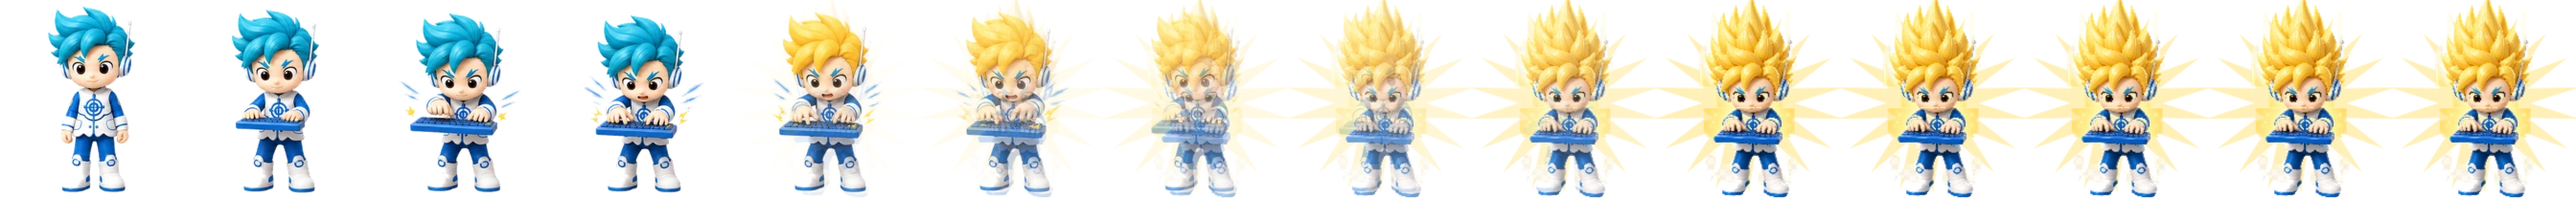
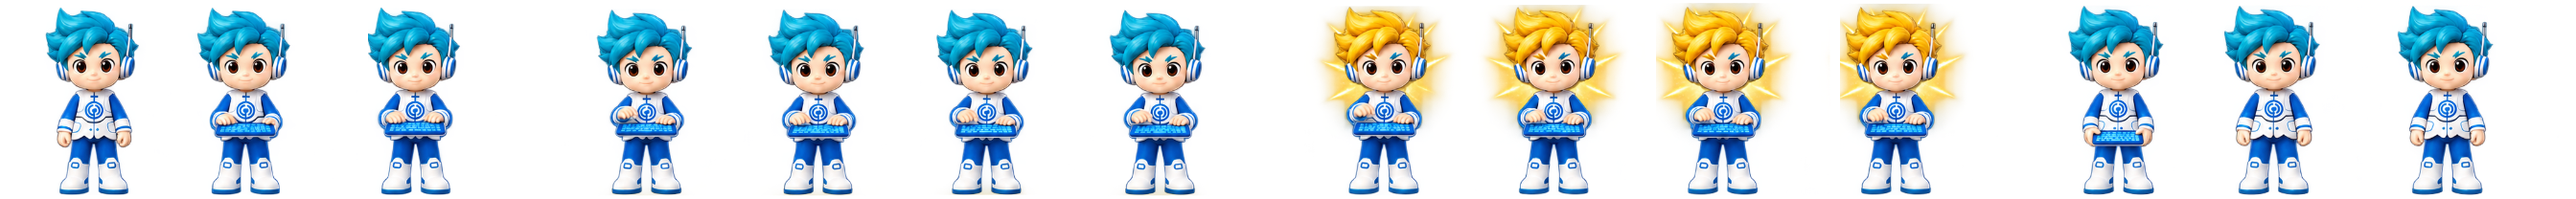
fix: 稳定内置宠物动作比例并加快悬停眨眼节奏
校准 zenmi 念经图集的逐帧高度及脚底位置，修复动作过程中轻微伸缩和上下漂移。重新制作 cutej 努力工作图集，保持工作角色的身体比例，去除交叉淡入造成的半透明人物重影，同时保留金发工作阶段资源自身携带的金色光效；不再依赖应用品牌额外叠加背景。

设置页悬停预览仍使用 idle 资源，但将动作段压缩至约零点六秒，随后回到首帧停歇三秒，再间歇重播，离开区域立即停止。保留减少动态效果偏好。通过渲染器构建、五十三项桌宠行为和命中测试，以及 Electron 动画时间点检查。生成源图、校准脚本和资源包输出均留在 output，不纳入提交。

diff --git a/src/renderer/pages/settings/SettingsPage.css b/src/renderer/pages/settings/SettingsPage.css
@@ -3778,7 +3778,7 @@
   background-position: 0 0;
 }
 .settings-page .pet-appearance-card:hover .desktop-pet-appearance-sprite {
-  animation: pet-card-idle var(--pet-preview-duration) steps(var(--desktop-pet-appearance-preview-frames)) infinite;
+  animation: pet-card-idle var(--pet-preview-duration) steps(var(--pet-preview-steps)) infinite;
 }
 .settings-page .pet-appearance-card .desktop-pet-appearance-preview img {
   width: 128px;
@@ -3800,9 +3800,11 @@
   bottom: 4px;
   z-index: 2;
 }
+/* A quick 600 ms gesture, followed by three seconds resting on the first frame. */
 @keyframes pet-card-idle {
-  from { background-position: 0 0; }
-  to { background-position: var(--pet-preview-end) 0; }
+  0% { background-position: 0 0; }
+  16.6666% { background-position: var(--pet-preview-end) 0; }
+  16.6667%, 100% { background-position: 0 0; }
 }
 @media (prefers-reduced-motion: reduce) {
   .settings-page .pet-appearance-card:hover .desktop-pet-appearance-sprite { animation: none; }

diff --git a/src/renderer/pages/settings/SettingsPage.tsx b/src/renderer/pages/settings/SettingsPage.tsx
@@ -4774,8 +4774,9 @@ export function SettingsPage({
                     const previewSpriteStyle = shouldRenderSpritePreview
                       ? ({
                           "--desktop-pet-appearance-preview-frames": String(idlePreviewFrameCount),
-                          "--pet-preview-end": `${-128 * idlePreviewFrameCount}px`,
-                          "--pet-preview-duration": `${Math.max(100, idlePreviewAsset?.durationMs || 1200)}ms`,
+                          "--pet-preview-end": `${-128 * (idlePreviewFrameCount - 1)}px`,
+                          "--pet-preview-steps": String(Math.max(1, idlePreviewFrameCount - 1)),
+                          "--pet-preview-duration": "3600ms",
                           backgroundImage: `url("${idlePreviewUrl}")`
                         } as CSSProperties)
                       : undefined;

diff --git a/qa/manual-regression.md b/qa/manual-regression.md
@@ -1151,7 +1151,7 @@
 - Identity Center 公钥输出改为另一条 manifest 声明路径后，Desktop 仍可取用公钥和令牌；缺失认证能力或目标平台命令应拒绝。WebClient 缺失宿主托管能力、认证依赖或公开错误代理路由时，归档与目录包均应拒绝。
 
 - 宠物助理删除：内置宠物无删除按钮；用户宠物确认后消失，可重新导入同 ID。删除当前宠物自动切回内置默认形象，重启仍保持；删除非当前宠物不切换。关闭宠物时仍可删除；取消确认和回收站失败不改变列表及选择。macOS 废纸篓、Windows 回收站分别验证可恢复资源。
-- 宠物助理布局：默认对话智能体在顶部，标签和选择框左右布局，与下方宠物形象共用一个面板；宠物每行四个、无边框，默认静止首帧，仅鼠标悬停的宠物播放 idle 动作，移出恢复首帧，减少动态效果偏好下静止。无“已保存”和“选择”按钮，点击宠物即可选择，支持键盘 Enter/空格，当前宠物的选中边框和键盘焦点框使用与皮肤选择相同的主题强调色，切换主题或皮肤后即时更新，区域无底色；宠物区域右下角的删除图标在悬停或键盘聚焦时出现，内置卡片永远不显示删除。
+- 宠物助理布局：默认对话智能体在顶部，标签和选择框左右布局，与下方宠物形象共用一个面板；宠物每行四个、无边框，默认静止首帧，仅鼠标悬停的宠物在约 0.6 秒内播放一轮 idle，停歇 3 秒再播，移出恢复首帧，减少动态效果偏好下静止。无“已保存”和“选择”按钮，点击宠物即可选择，支持键盘 Enter/空格，当前宠物的选中边框和键盘焦点框使用与皮肤选择相同的主题强调色，切换主题或皮肤后即时更新，区域无底色；宠物区域右下角的删除图标在悬停或键盘聚焦时出现，内置卡片永远不显示删除。
 
 - 自定义皮肤列表不显示版本号；名称与删除图标同排，长名称省略并可悬停查看。删除仅悬停或键盘聚焦时显示；选中皮肤有主题色外框和勾选标记，切换自定义/内置皮肤后标记同步，换明暗后仍清晰。
 - 专属动作：分别在内置及导入宠物上手动播放，只出现资源自身动画，不叠加品牌金色光环、粒子或阴影图层。
@@ -1162,3 +1162,4 @@
 - 使用新 Hub Bundle，分别配置和不配置管理员 token，验证 Sandbox 市场列表、模板导入和构建使用本地认证 capability，凭据不出现在 renderer、日志或市场记录。
 - 自定义配置目录包含空格和中文；验证两个平台均由 Hub 自己加载正确目录。缺少 `.env`、capability 命令失败或旧包缺少能力时禁止匿名降级，不启动或修复服务来获取凭据。
 - 现有 Identity Center capability 保持原配置加载行为，启动与本地认证正常。
+- 内置 zenmi 念经动作各帧人物高度与脚底稳定；cutej 努力工作保持人物比例，金光仅存在于专属资源的金发工作帧中，不出现半透明人物重影。
